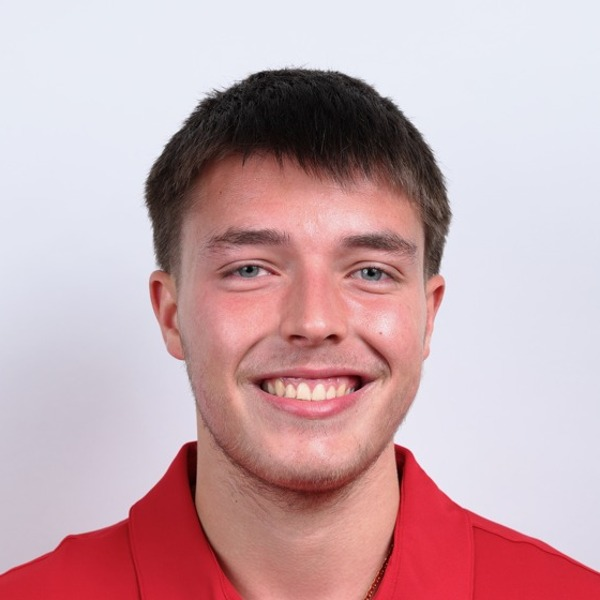
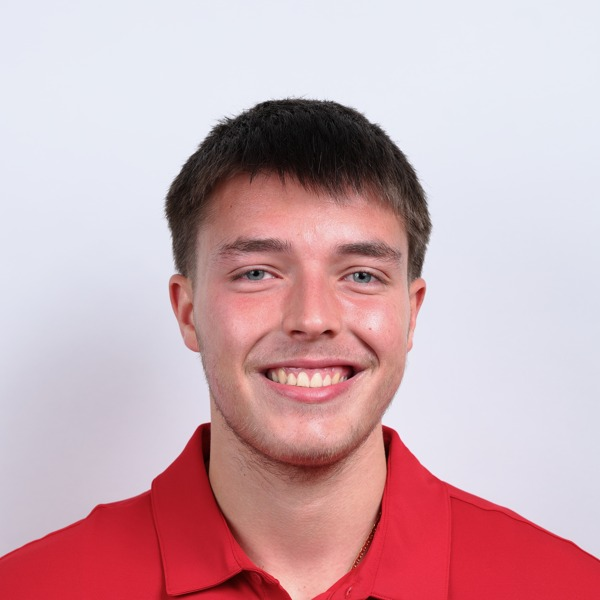
Add thin dividers between trainer sections; zoom out Steven's headshot
Divider is a plain <hr> between trainer sections on the About page
(inherits the existing space-y-16 rhythm for even spacing above/below,
doesn't run before the first trainer). Steven's headshot crop pulled back
~15% for more headroom/shoulder while keeping the same face centering.

Changed region(s): [[0.0, 0.09, 1.0, 1.0], [0.72, 0.96, 0.78, 1.0]]

diff --git a/src/app/about/page.tsx b/src/app/about/page.tsx
@@ -1,3 +1,4 @@
+import { Fragment } from "react";
 import type { Metadata } from "next";
 import Link from "next/link";
 import Image from "next/image";
@@ -201,8 +202,10 @@ export default function AboutPage() {
             mirrors Artemios's own hero section above exactly; their bio
             reads in the same text-alongside-media layout as his "Why Mesa
             Exists" section, just with a video slot instead of a photo. */}
-        {sortedTrainers.length > 0 && sortedTrainers.map((trainer) => (
-          <section key={trainer.slug} id={trainer.slug} className="scroll-mt-20">
+        {sortedTrainers.length > 0 && sortedTrainers.map((trainer, i) => (
+          <Fragment key={trainer.slug}>
+            {i > 0 && <hr className="border-t border-brown-800" />}
+            <section id={trainer.slug} className="scroll-mt-20">
             {/* Full-bleed gradient band behind the headshot/name/pills, matching
                 Artemios's own hero section above — breaks out of <main>'s
                 max-w-4xl to span the full viewport width. */}
@@ -257,7 +260,8 @@ export default function AboutPage() {
                 </div>
               )}
             </div>
-          </section>
+            </section>
+          </Fragment>
         ))}
 
         {/* CTA */}
